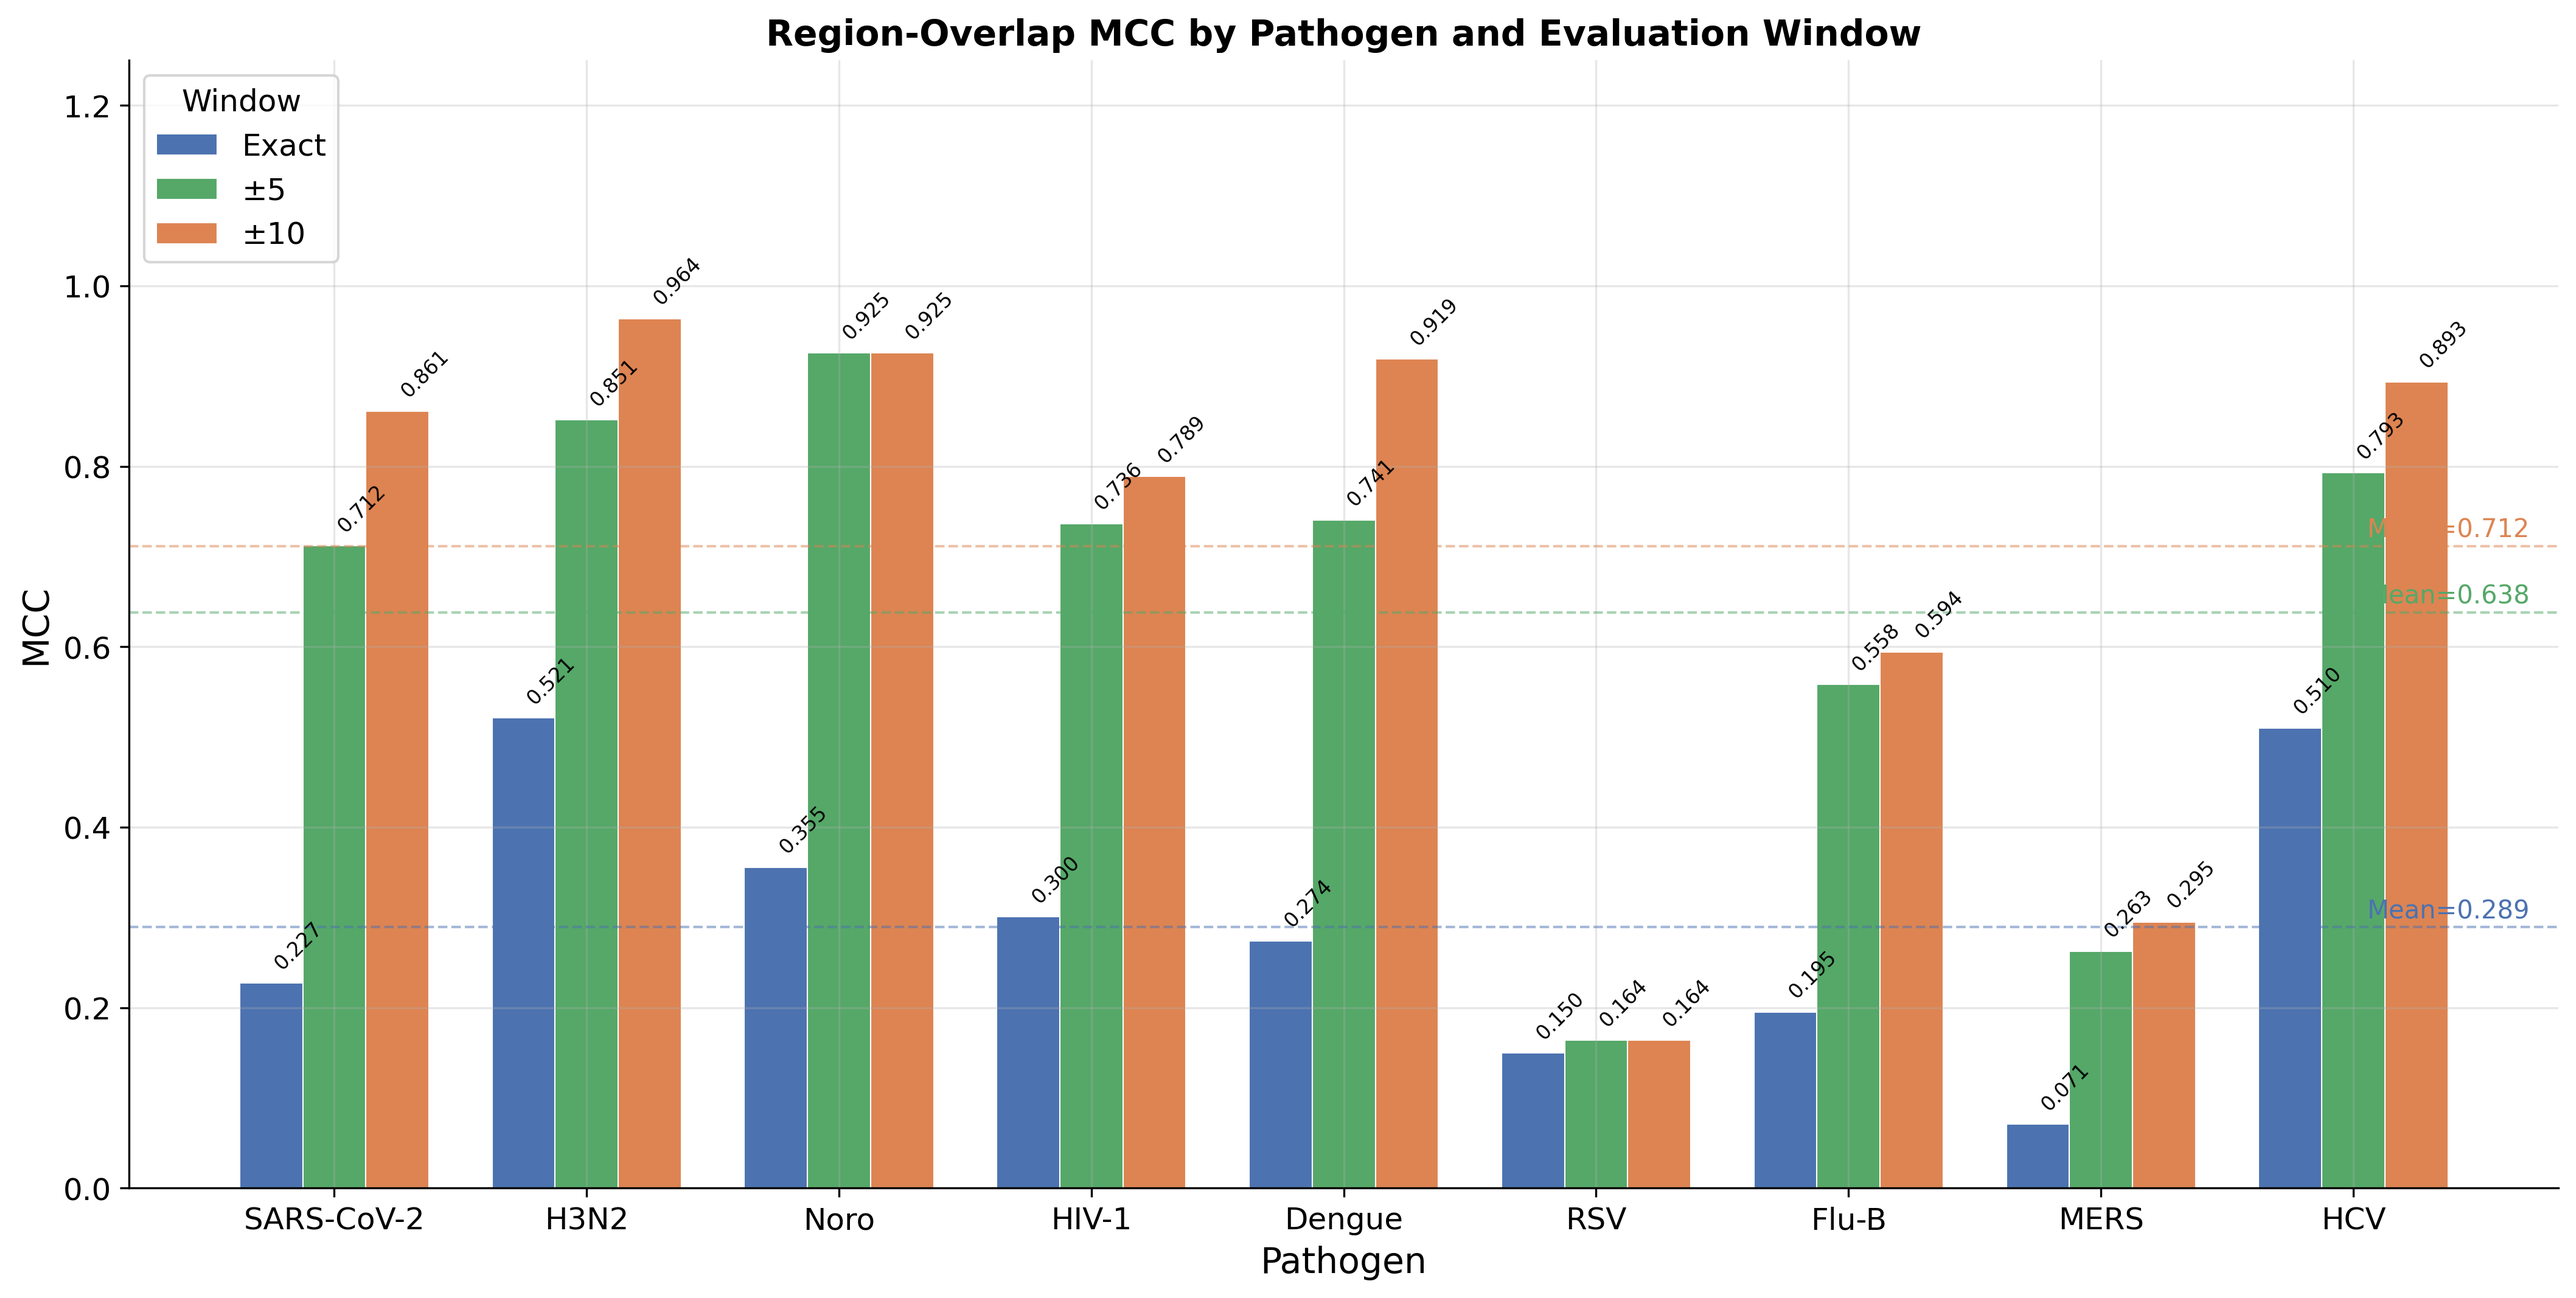
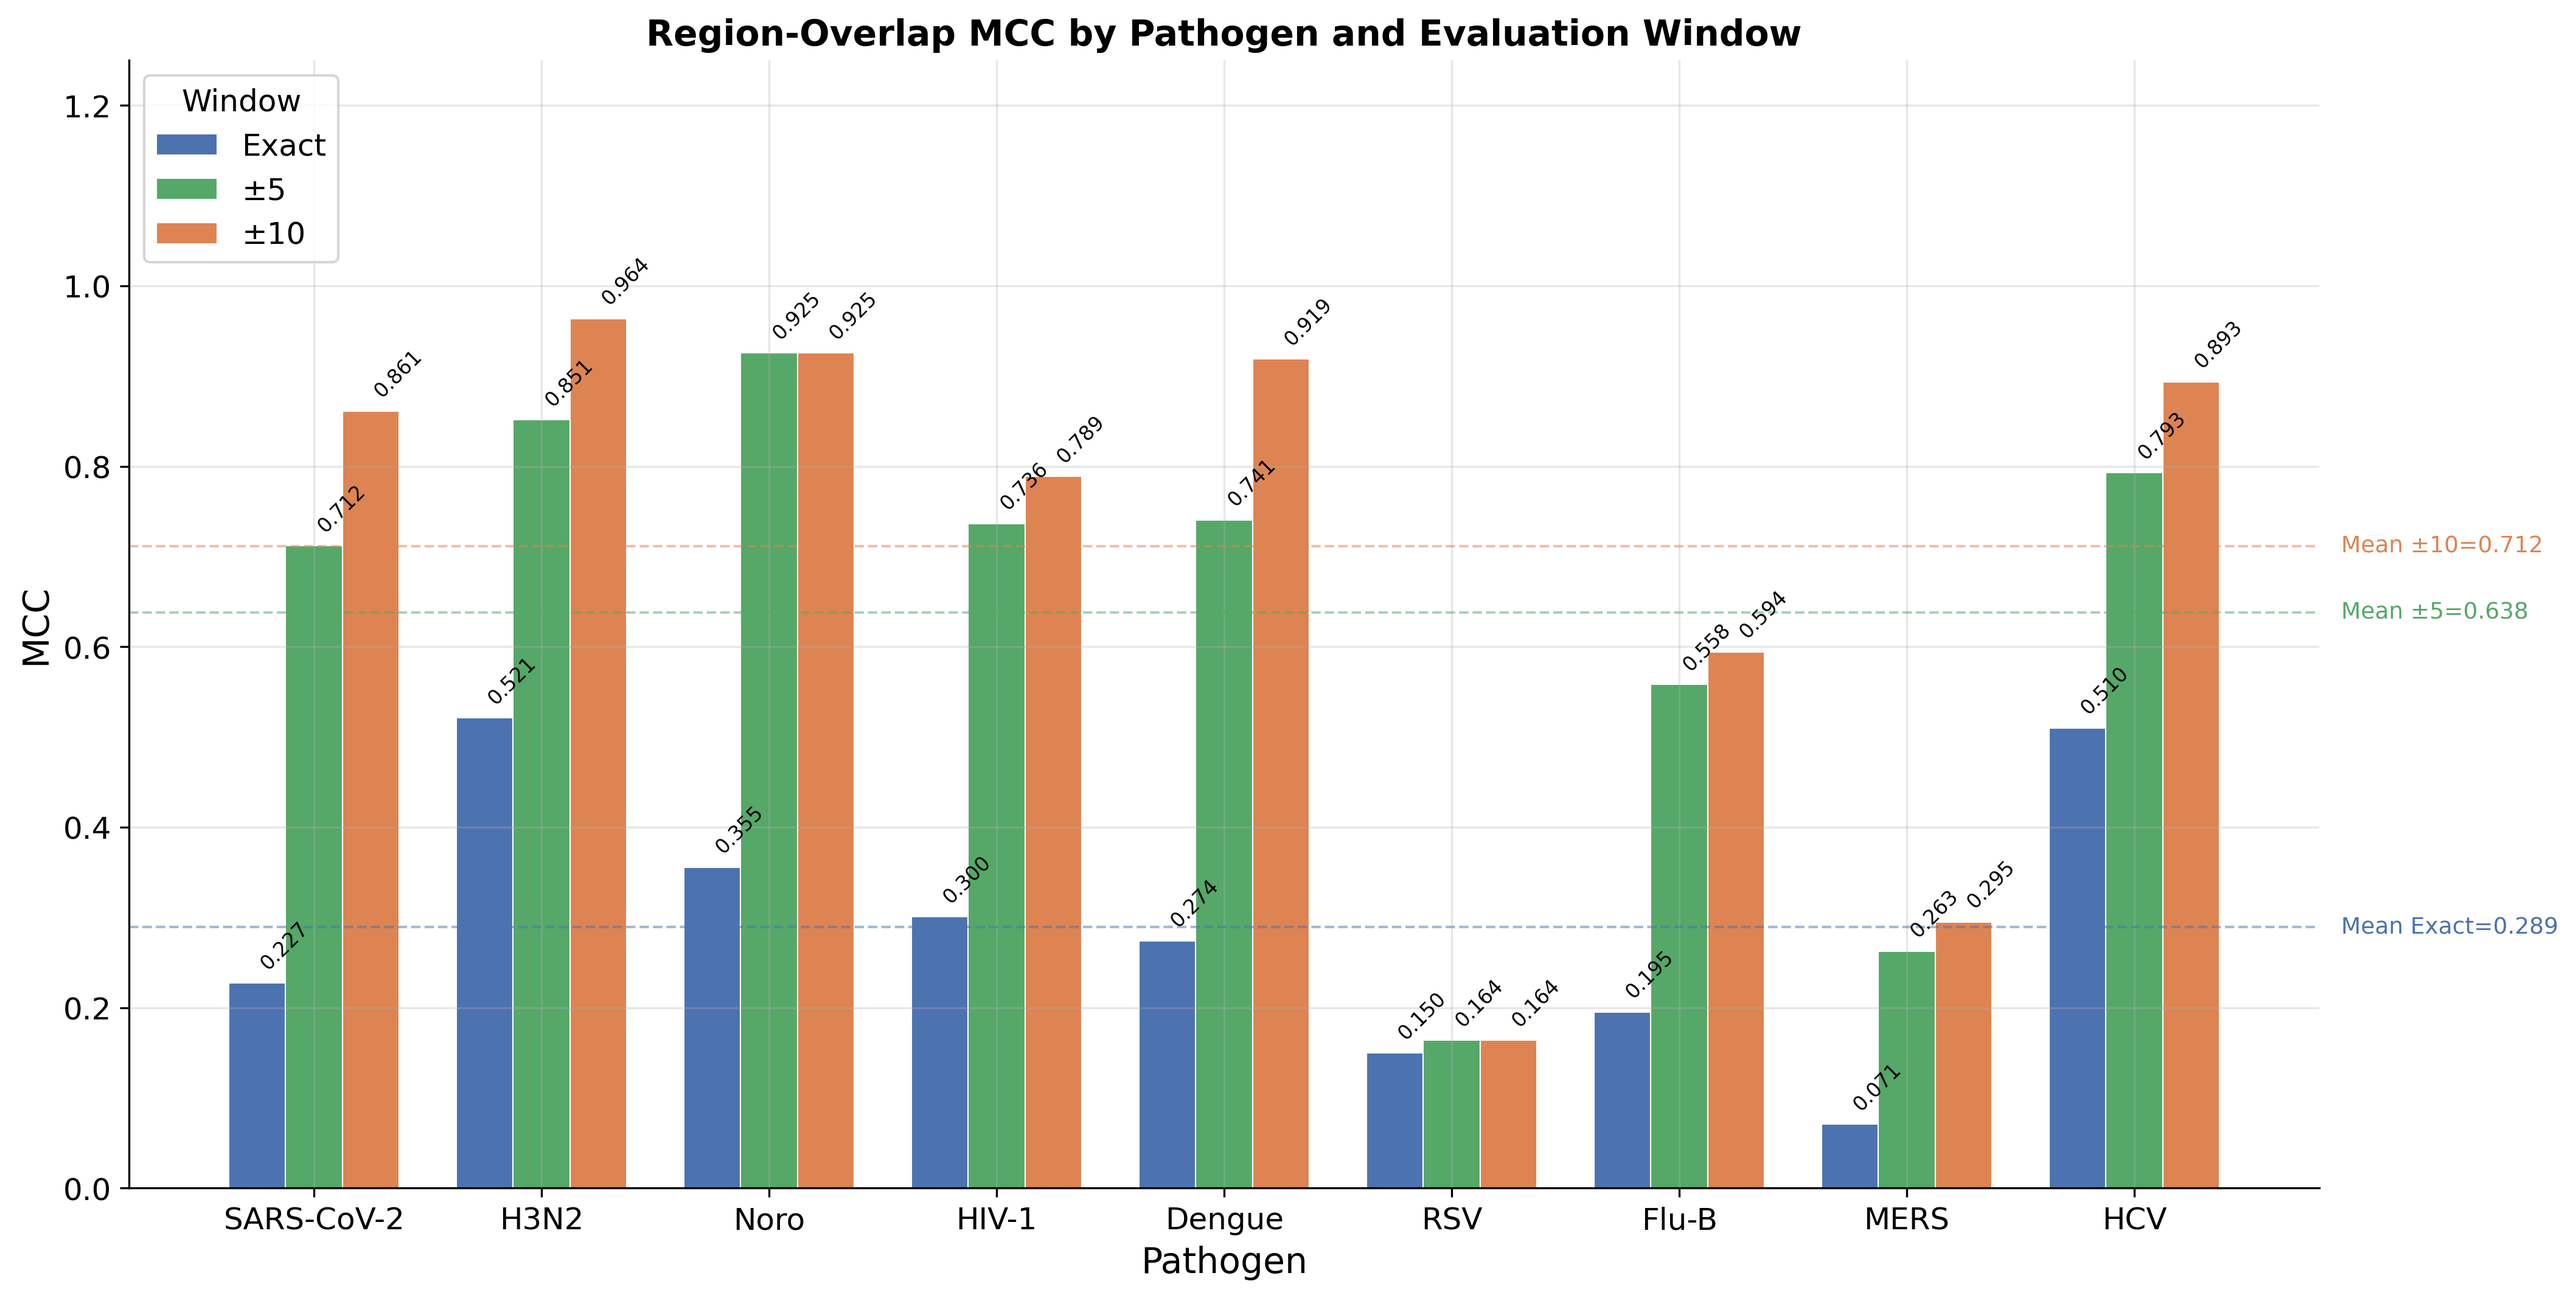
fix: figure overlap issues — ANOVA, region-overlap, genome map
- ANOVA: figure 8x3.5→12x5, legend above bars (bbox_to_anchor),
  bar text 6.5→8pt, η²→ω² label, donut legend below chart
- Region-overlap: mean labels moved outside plot area (annotation_clip)
- Genome hotspot map: symlog y-scale for H-score visibility
- All figures: increased padding, legend positioning fixed

diff --git a/scripts/generate_figures_9pathogen.py b/scripts/generate_figures_9pathogen.py
@@ -250,8 +250,8 @@ def fig5_variance_decomposition():
     df = pd.read_csv(f'{DATA_DIR}/anova_9pathogen.csv')
     df = df[df['dataset'] != 'Combined']
 
-    fig, (ax1, ax2) = plt.subplots(1, 2, figsize=(8, 3.5),
-                                    gridspec_kw={'width_ratios': [3, 1]})
+    fig, (ax1, ax2) = plt.subplots(1, 2, figsize=(12, 5),
+                                    gridspec_kw={'width_ratios': [3, 1.2]})
 
     # Left: stacked bars per pathogen
     eta_data = {}
@@ -279,16 +279,17 @@ def fig5_variance_decomposition():
         for j, v in enumerate(vals):
             if v > 0.06:
                 ax1.text(x[j], bottoms[j] + v/2, f'{v:.0%}',
-                        ha='center', va='center', fontsize=6.5, color='white',
+                        ha='center', va='center', fontsize=8, color='white',
                         fontweight='bold')
         bottoms += vals
 
     ax1.set_xticks(x)
-    ax1.set_xticklabels(short_labels, fontsize=8, rotation=30, ha='right')
-    ax1.set_ylabel(r'Proportion of variance ($\eta^2$)', fontsize=10)
-    ax1.set_ylim(0, 1.05)
-    ax1.legend(loc='upper right', fontsize=8, frameon=False)
-    ax1.set_title('(A) Per-pathogen variance decomposition', fontsize=10,
+    ax1.set_xticklabels(short_labels, fontsize=10, rotation=45, ha='right')
+    ax1.set_ylabel(r'Proportion of variance ($\omega^2$)', fontsize=12)
+    ax1.set_ylim(0, 1.08)
+    ax1.legend(loc='upper center', fontsize=9, frameon=True, fancybox=True,
+               bbox_to_anchor=(0.5, 1.15), ncol=3)
+    ax1.set_title('(A) Per-pathogen variance decomposition', fontsize=12,
                   fontweight='bold', loc='left')
 
     # Right: donut chart (average across 9 pathogens)
@@ -302,14 +303,14 @@ def fig5_variance_decomposition():
         t.set_fontsize(9)
         t.set_fontweight('bold')
 
-    # Add legend below donut
-    ax2.legend(labels, loc='lower center', fontsize=7.5, frameon=False,
-               bbox_to_anchor=(0.5, -0.15), ncol=1)
-    ax2.set_title('(B) Cross-pathogen\naverage (n=9)', fontsize=10,
+    # Add legend below donut — outside chart area
+    ax2.legend(labels, loc='lower center', fontsize=9, frameon=True, fancybox=True,
+               bbox_to_anchor=(0.5, -0.25), ncol=1)
+    ax2.set_title('(B) Cross-pathogen\naverage (n=9)', fontsize=12,
                   fontweight='bold', loc='center')
 
-    plt.tight_layout()
-    fig.savefig(f'{FIG_DIR}/variance_decomposition.png')
+    plt.tight_layout(rect=[0, 0, 1, 0.95])
+    fig.savefig(f'{FIG_DIR}/variance_decomposition.png', dpi=300, bbox_inches='tight')
     plt.close(fig)
     print('Saved Fig 5: variance_decomposition.png')
 

diff --git a/scripts/generate_new_figures.py b/scripts/generate_new_figures.py
@@ -64,12 +64,20 @@ def generate_region_overlap_bar():
                         xytext=(0, 4), textcoords='offset points',
                         ha='left', va='bottom', fontsize=8, rotation=45)
 
-    # Mean lines
+    # Mean lines — labels placed to the right outside the plot area
+    mean_vals = []
     for i, (col, color) in enumerate(zip(['Exact', '±5', '±10'], colors)):
         mean_val = plot_df[col].mean()
+        mean_vals.append(mean_val)
         ax.axhline(y=mean_val, color=color, linestyle='--', alpha=0.5, linewidth=1.0)
-        ax.text(len(PATHOGENS) - 0.3, mean_val + 0.01,
-                f'Mean={mean_val:.3f}', color=color, fontsize=10, ha='right')
+
+    # Place mean labels stacked at the right edge, spaced to avoid overlap
+    mean_vals_sorted = sorted(zip(mean_vals, colors, ['Exact', '±5', '±10']), key=lambda t: t[0])
+    for j, (mv, clr, lbl) in enumerate(mean_vals_sorted):
+        ax.annotate(f'Mean {lbl}={mv:.3f}', xy=(1.01, mv),
+                    xycoords=('axes fraction', 'data'),
+                    fontsize=9, color=clr, va='center', ha='left',
+                    annotation_clip=False)
 
     ax.set_xlabel('Pathogen', fontsize=14)
     ax.set_ylabel('MCC', fontsize=14)

diff --git a/tools/mutbench/visualization/plots.py b/tools/mutbench/visualization/plots.py
@@ -51,9 +51,10 @@ def plot_genome_hotspot_map(hscores, detected_positions: set, ground_truth_posit
     fig, axes = plt.subplots(3, 1, figsize=(14, 8), sharex=True)
     positions = np.arange(len(hscores))
 
-    # H-score profile
+    # H-score profile (symlog scale for better visibility of low values)
     axes[0].fill_between(positions, hscores, alpha=0.7)
     axes[0].set_ylabel('H-score')
+    axes[0].set_yscale('symlog', linthresh=0.01)
     axes[0].set_title('Genome-wide Mutation Hotspot Map')
 
     # Detected hotspots
